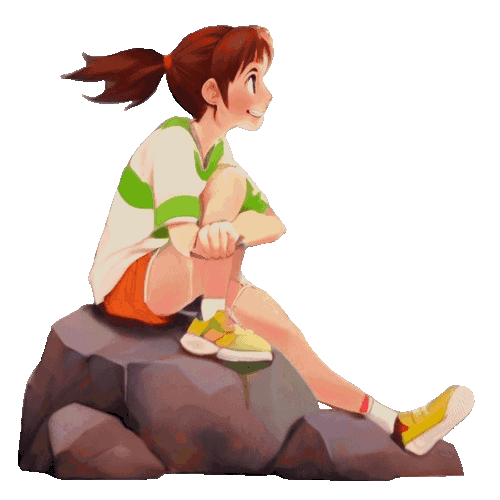
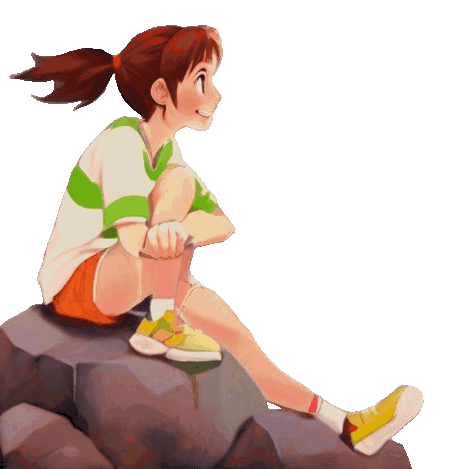
Imagen en section de nubes, cambio de estilos, nuevas imagenes de burbujas

diff --git a/view/css/mobile.css b/view/css/mobile.css
@@ -1,29 +1,37 @@
 header{
     padding: 0.1px;
     background-image: linear-gradient(to top, #30cfd0 54%, #FF914D , #FF3131 100%);
+    overflow: hidden;
 }
 
-div:first-of-type{
+/*  Primer div */
+header:nth-child(1n) div:first-child{
     height: 100vh;
     padding: 0.1px;
+    overflow: hidden;
+    background-image: url(../image/img-header/nube.jpg);
+    background-position: top;
+    background-size: cover;
+    background-repeat: no-repeat;
 }
 
 section{
     width: 100%;
-    height: 52vh;
+    height: 76vh;
 }
 
 h1{
     font-family: 'Pak Kumis', sans-serif;
-    font-size: 3rem;
+    font-size: calc(0.6rem + 10vw);
     color: #523327;
-    background: radial-gradient(#FFDE59 -28%, #FF5722 100%);
-    box-shadow: 1px 4px 31px 6px #35160a;
+    background: radial-gradient(#FFDE59 -28%, #ff5722eb 100%);
+    box-shadow: 1px 4px 62px 18px #ffd300;
     text-align: center;
     border-radius: 100px;
-    width: 171px;
+    width: 41%;
     padding: 18px;
-    margin: -3px 0px 0px -5px;
+    margin: 2px 0px 0px 5px;
+    line-height: normal;
 }
 
 figure{
@@ -32,35 +40,33 @@ figure{
 
 figure:first-child img{
     position: fixed;
-    /* left: 0;
-    width: 200px; */
-    left: -22px;
-    bottom: -12px;
-    width: 200px;
+    bottom: 0px;
+    width: 50%;
     z-index: 1;
-    overflow: hidden;
-    filter: drop-shadow(2px 4px 6px black);
+    filter: drop-shadow(2px 4px 3px black);
 }
 
 figure:nth-child(2n) img{
-    width: 509px;
-    right: -230px;
-    top: 38px;
+    width: calc(41% + 10vw);
     z-index: 1;
-    transform: rotate(-49deg);
     position: fixed;
-    overflow: hidden;
+    bottom: 0;
+    right: 0px;
     filter: drop-shadow(2px 4px 6px black);
 }
 
+/* Primer div de las Wave */
 section div:first-of-type{
-    height: 80px;
+    height: calc(7px + 20vw);
     overflow: hidden;
+    filter: drop-shadow(0px -6px 0px #e1e7eb);
 }
 
+/* Segundo div de las Wave */
 section div:last-of-type{
-    height: 69px;
+    height: calc(7px + 20vw);
     overflow: hidden;
+    filter: drop-shadow(0px -8px 0px #3838c1);
 }
 
 .wave{
@@ -74,103 +80,86 @@ nav{
     height: 100vh;
     display: flex;
     flex-direction: column;
-    padding-top: 0.1px;
-    background-image: linear-gradient(to top, #032335 0%, #0099ff 99%);
+    background-image: linear-gradient(to top, #021723 0%, #0099ff 99%);
 }
 
 ul{
     display: flex;
     flex-direction: column;
-    justify-content: space-around;
+    list-style: none;
     margin: 0;
     padding: 0;
-    list-style: none;
 }
 
 /* Primer ul*/
 nav ul:first-child{
-    height: 60vh;
+    height: 70vh;
+    align-items: start;
 }
 
 /* Segundo ul*/
 nav ul:last-child{
-    height: 40vh;
+    height: 30vh;
+    align-items: end;
 }
 
-/* Position para todas las img */
-nav ul li figure img:only-child{
-    position: unset;
-}
-
-/* Primer ul: a y img */
-nav:first-of-type ul:first-of-type li:first-of-type a{
-    position: relative;
-    top: -139px;
-    margin-left: 83px;
-    font-family: 'Pak Kumis', sans-serif;
-    font-size: 2rem;
-    text-decoration: none;
-    color: #FF5722;
-}
-
+/* Primer ul: img */
 nav:first-of-type ul:first-of-type li:first-of-type img{
-    filter: drop-shadow(2px 20px 19px #1a668c);
-}
-
-nav:first-of-type ul:first-of-type li:last-of-type a{
+    width: calc(20% + 19vw);
     position: relative;
-    top: -115px;
-    margin-left: 9px;
-    font-family: 'Pak Kumis', sans-serif;
-    font-size: 1.5rem;;
-    text-decoration: none;
-    color: #483530;
-
-    text-shadow: 1px 2px 2px #fdfdfd;
-    -webkit-text-stroke-width: 1.8px;
-    background-color: aliceblue;
-    -webkit-text-stroke-color: #071461;
-}
+    filter: drop-shadow(2px 20px 19px #0e5477);
+} 
 
 nav:first-of-type ul:first-of-type li:last-of-type img{
-    width: 147px;
-    margin-left: -3px;
+    width: calc(20% + 19vw);
+    position: relative;
+    z-index: 0;
     filter: drop-shadow(2px 20px 19px #032335);
 }
 
 /* Segundo ul: a y img */
-nav:last-of-type ul:last-of-type li:first-of-type a{
+/* nav:last-of-type ul:last-of-type li:first-of-type a{
     position: relative;
     top: -139px;
     margin-left: 76px;
     font-family: 'Pak Kumis', sans-serif;
-    font-size: 2rem;
+    font-size: calc(0.1rem + 10vw);
     text-decoration: none;
-    color: #FF5722;
-}
+    color: #150354;
+    text-shadow: 0px 1px 1px #000000;
+    background: rgba( 255, 255, 255, 0.25 );
+    backdrop-filter: blur( 26px );
+    --webkit-backdrop-filter: blur( 4px );
+    border-radius: 10px;
+} */
 
 nav:last-of-type ul:last-of-type li:first-of-type img{
-    width: 167px;
+    width: 60%;
     margin-left: 47px;
     margin-bottom: 32px;
     transform: rotate(-60deg);
     filter: drop-shadow(2px 20px 19px #032335);
 }
 
-nav:last-of-type ul:last-of-type li:last-of-type a{
+/* nav:last-of-type ul:last-of-type li:last-of-type a{
     position: relative;
     right: -238px;
     bottom: 61px;
     font-family: 'Pak Kumis', sans-serif;
-    font-size: 1.6rem;
+    font-size: calc(0.1rem + 8vw);
     text-decoration: none;
-    color: #FF5722;
-}
+    color: #150354;
+    text-shadow: 0px 1px 1px #000000;
+    background: rgba( 255, 255, 255, 0.25 );
+    backdrop-filter: blur( 26px );
+    --webkit-backdrop-filter: blur( 4px );
+    border-radius: 10px;
+} */
 
 nav:last-of-type ul:last-of-type li:last-of-type img{
     transform: rotate(90deg);
     width: 121px;
     margin-left: 198px;
     margin-top: -74px;
-    filter: drop-shadow(2px 20px 19px #1a668c);
+    filter: drop-shadow(2px 14px 18px #1a668c);
 }

diff --git a/index.html b/index.html
@@ -16,47 +16,51 @@
                     <img src="./view/image/img-header/chihiro.png" alt="Chihiro">
                 </figure>
                 <figure>
-                    <img src="./view/image/img-header/haku.png" alt="Dragón Haku">
+                    <img src="./view/image/img-header/haku7.png" alt="Dragón Haku">
                 </figure>
                 <div class="wave">
                     <svg xmlns="http://www.w3.org/2000/svg" viewBox="0 0 1440 320">
                         <path fill="#a2d9ff" fill-opacity="9" d="M0,64L48,58.7C96,53,192,43,288,42.7C384,43,480,53,576,64C672,75,768,85,864,80C960,75,1056,53,1152,48C1248,43,1344,53,1392,58.7L1440,64L1440,320L1392,320C1344,320,1248,320,1152,320C1056,320,960,320,864,320C768,320,672,320,576,320C480,320,384,320,288,320C192,320,96,320,48,320L0,320Z"></path>
-                      </svg>
+                    </svg>
                 </div>
                 <div class="wave">
-                      <svg xmlns="http://www.w3.org/2000/svg" viewBox="0 0 1440 320">
+                    <svg xmlns="http://www.w3.org/2000/svg" viewBox="0 0 1440 320">
                         <path fill="#0099ff" fill-opacity="9" d="M0,96L48,80C96,64,192,32,288,37.3C384,43,480,85,576,128C672,171,768,213,864,197.3C960,181,1056,107,1152,80C1248,53,1344,75,1392,85.3L1440,96L1440,320L1392,320C1344,320,1248,320,1152,320C1056,320,960,320,864,320C768,320,672,320,576,320C480,320,384,320,288,320C192,320,96,320,48,320L0,320Z"></path>
-                      </svg>
+                    </svg>
                 </div>
             </section>
         </div>
         <nav>
             <ul>
                 <li>
-                    <figure>
-                        <img src="./view/image/img-header/burbuja1.png" alt="Burbuja de colores">
-                    </figure>
-                    <a href="">Pelicula</a>
+                    <a href="">
+                        <figure>
+                            <img src="./view/image/img-header/pelicula.png" alt="Burbuja de colores">
+                        </figure>
+                    </a>
                 </li>
                 <li>
-                    <figure>
-                        <img src="./view/image/img-header/burbuja2.png" alt="Burbuja de colores">
-                    </figure>
-                    <a href="">Personajes</a>
+                    <a href="">
+                        <figure>
+                            <img src="./view/image/img-header/personajes.png" alt="Burbuja de colores">
+                        </figure>
+                    </a>
                 </li>
             </ul>
             <ul>
                 <li>
-                    <figure>
-                        <img src="./view/image/img-header/burbuja2.png" alt="Burbuja de colores">
-                    </figure>
-                    <a href="">Autor</a>
+                    <a href="">
+                        <figure>
+                            <img src="./view/image/img-header/burbuja2.png" alt="Burbuja de colores">
+                        </figure>
+                    </a>
                 </li>
                 <li>
-                    <figure>
-                        <img src="./view/image/img-header/burbuja1.png" alt="Burbuja de colores">
-                    </figure>
-                    <a href="">Lugares</a>
+                    <a href="">
+                        <figure>
+                            <img src="./view/image/img-header/burbuja1.png" alt="Burbuja de colores">
+                        </figure>
+                    </a>
                 </li>
             </ul>
         </nav>

diff --git a/view/css/style.css b/view/css/style.css
@@ -3,5 +3,11 @@
 @import url('https://fonts.cdnfonts.com/css/pak-kumis');
 
 :root{
-    
+    --font-size-sm: clamp(0.8rem, 0.17vw + 0.76rem, 0.89rem);
+    --font-size-base: clamp(1rem, 0.34vw + 0.91rem, 1.19rem);
+    --font-size-md: clamp(1.25rem, 0.61vw + 1.1rem, 1.58rem);
+    --font-size-lg: clamp(1.56rem, 1vw + 1.31rem, 2.11rem);
+    --font-size-xl: clamp(1.95rem, 1.56vw + 1.56rem, 2.81rem);
+    --font-size-xxl: clamp(2.44rem, 2.38vw + 1.85rem, 3.75rem);
+    --font-size-xxxl: clamp(3.05rem, 3.54vw + 2.17rem, 5rem);
 }
